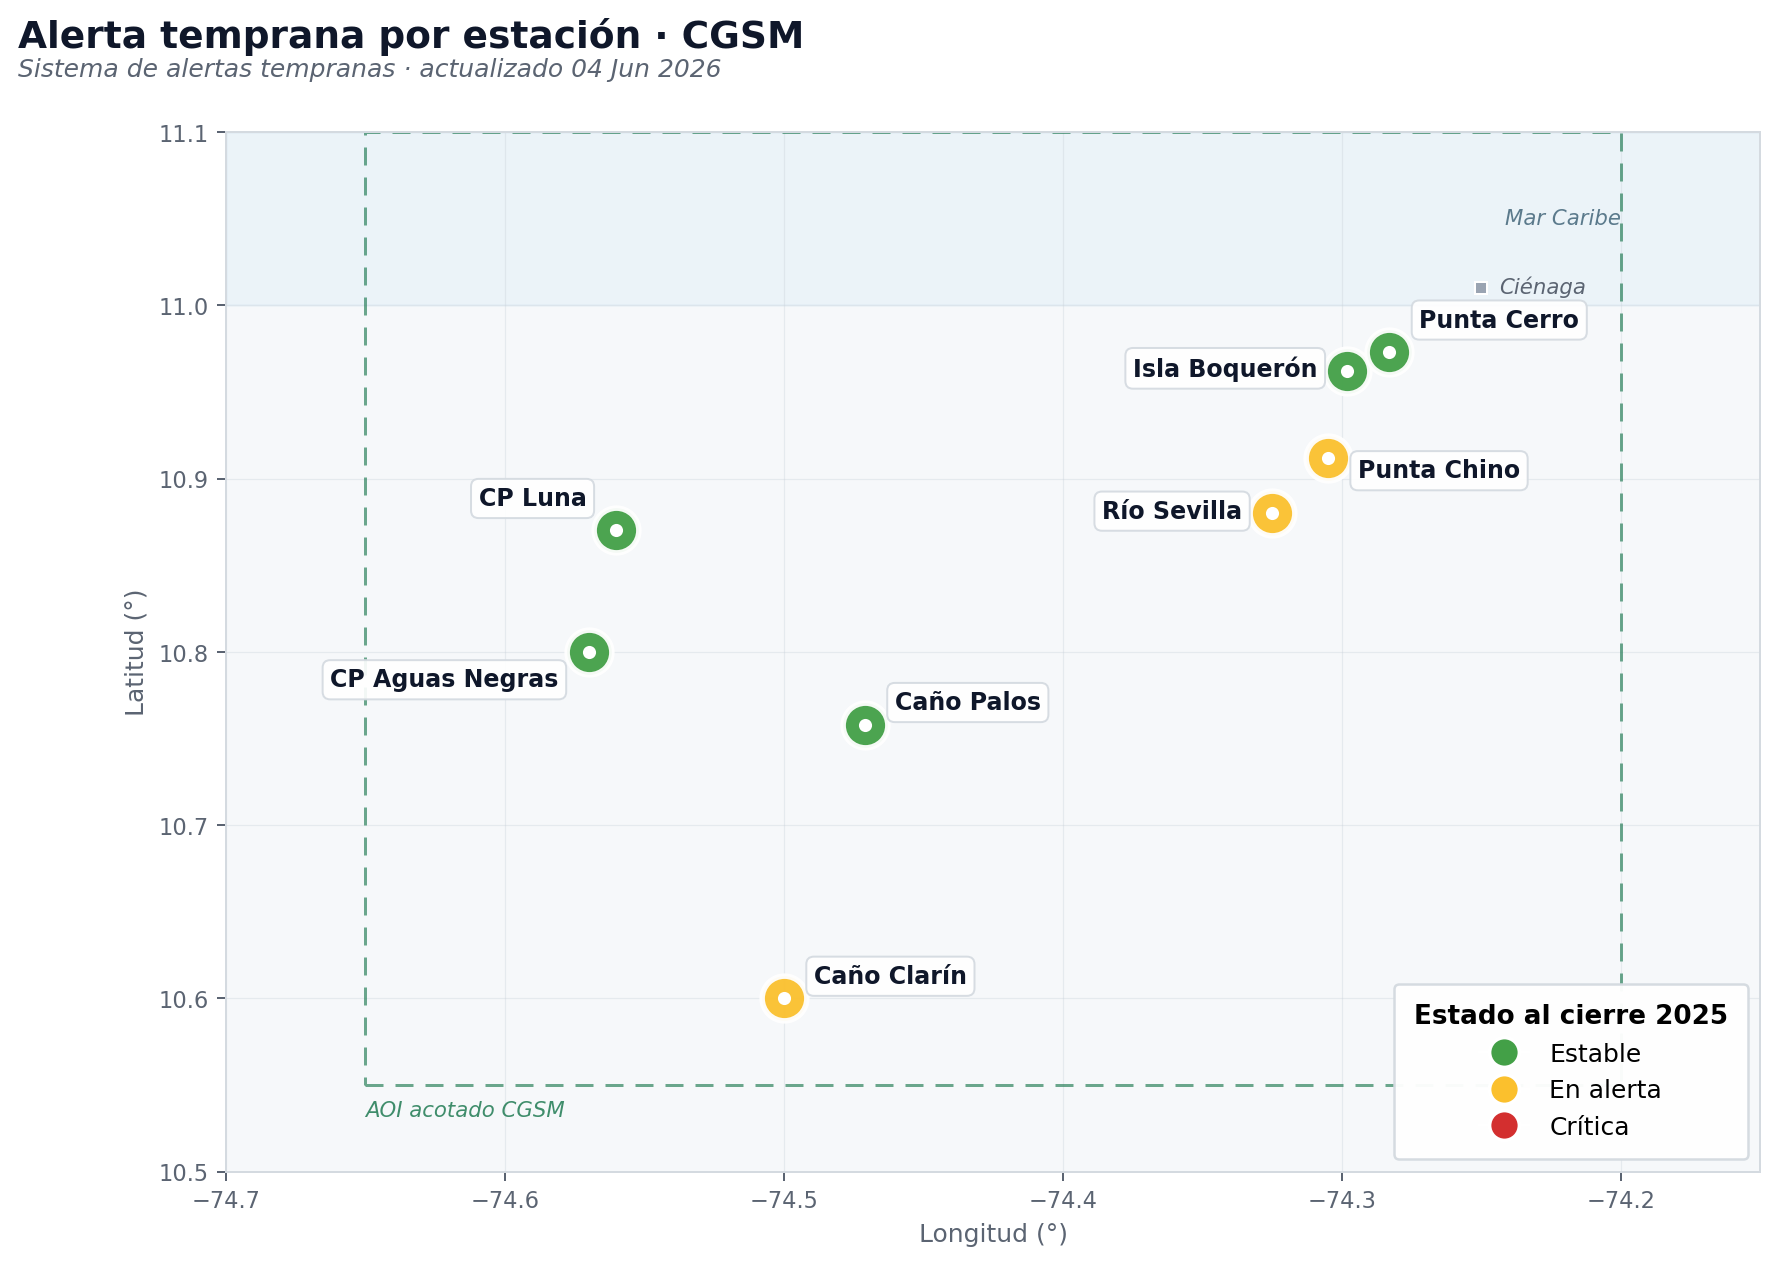
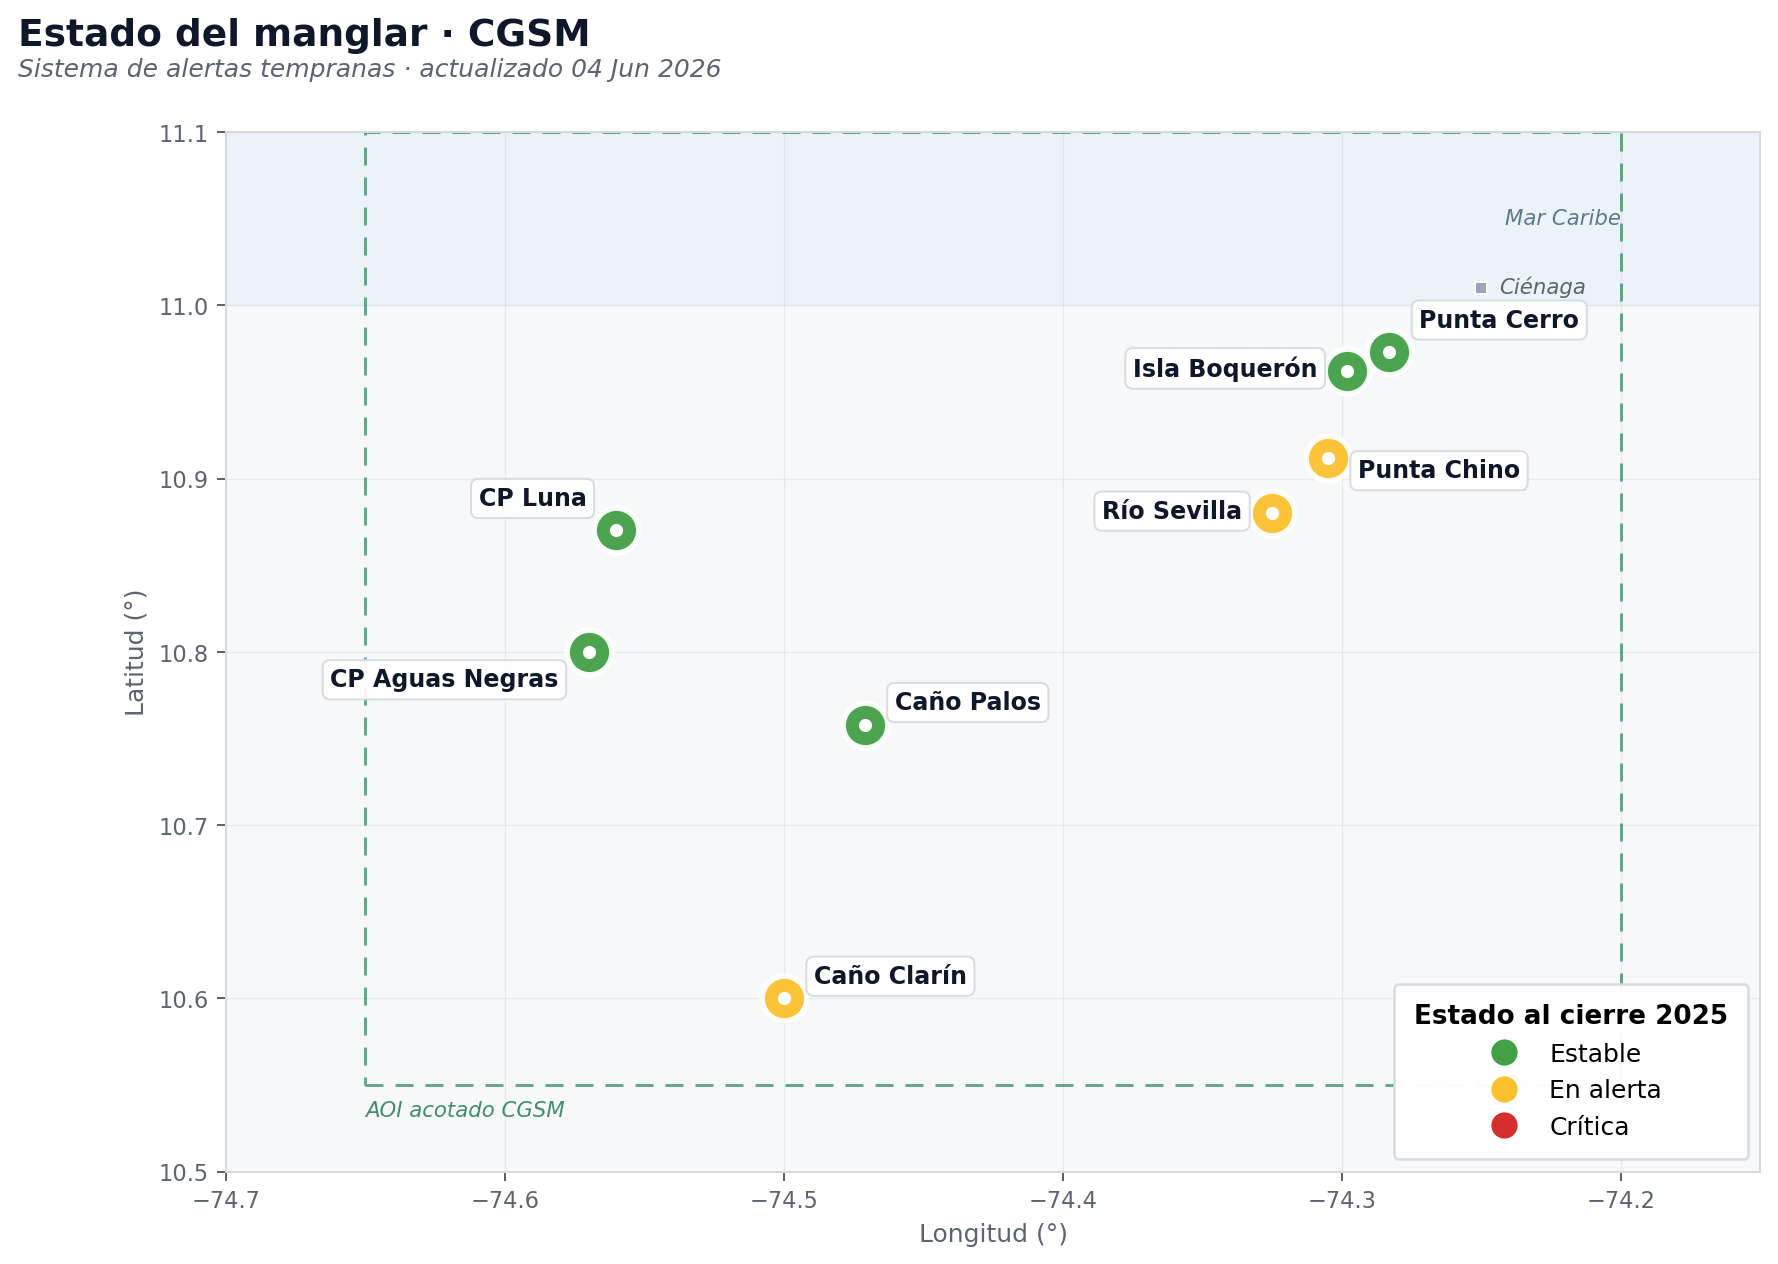
Anti-redundancia título PNG: 'Alerta temprana por estación · CGSM' -> 'Estado del manglar · CGSM' (card title del dashboard ya dice 'Alerta temprana por estación', evita duplicación)

Changed region(s): [[0.0, 0.0, 0.464, 0.0617]]

diff --git a/src/python/alertas_manglar.py b/src/python/alertas_manglar.py
@@ -388,7 +388,7 @@ for spine in ax.spines.values():
 
 # Título + subtítulo posicionados con fig.text para evitar superposición
 # con el área del plot (ax.text con ax.transAxes podía caer dentro del axes).
-fig.text(0.02, 0.965, 'Alerta temprana por estación · CGSM',
+fig.text(0.02, 0.965, 'Estado del manglar · CGSM',
          fontsize=15, fontweight=700, color='#0f172a',
          ha='left', va='top')
 fig.text(0.02, 0.935,
